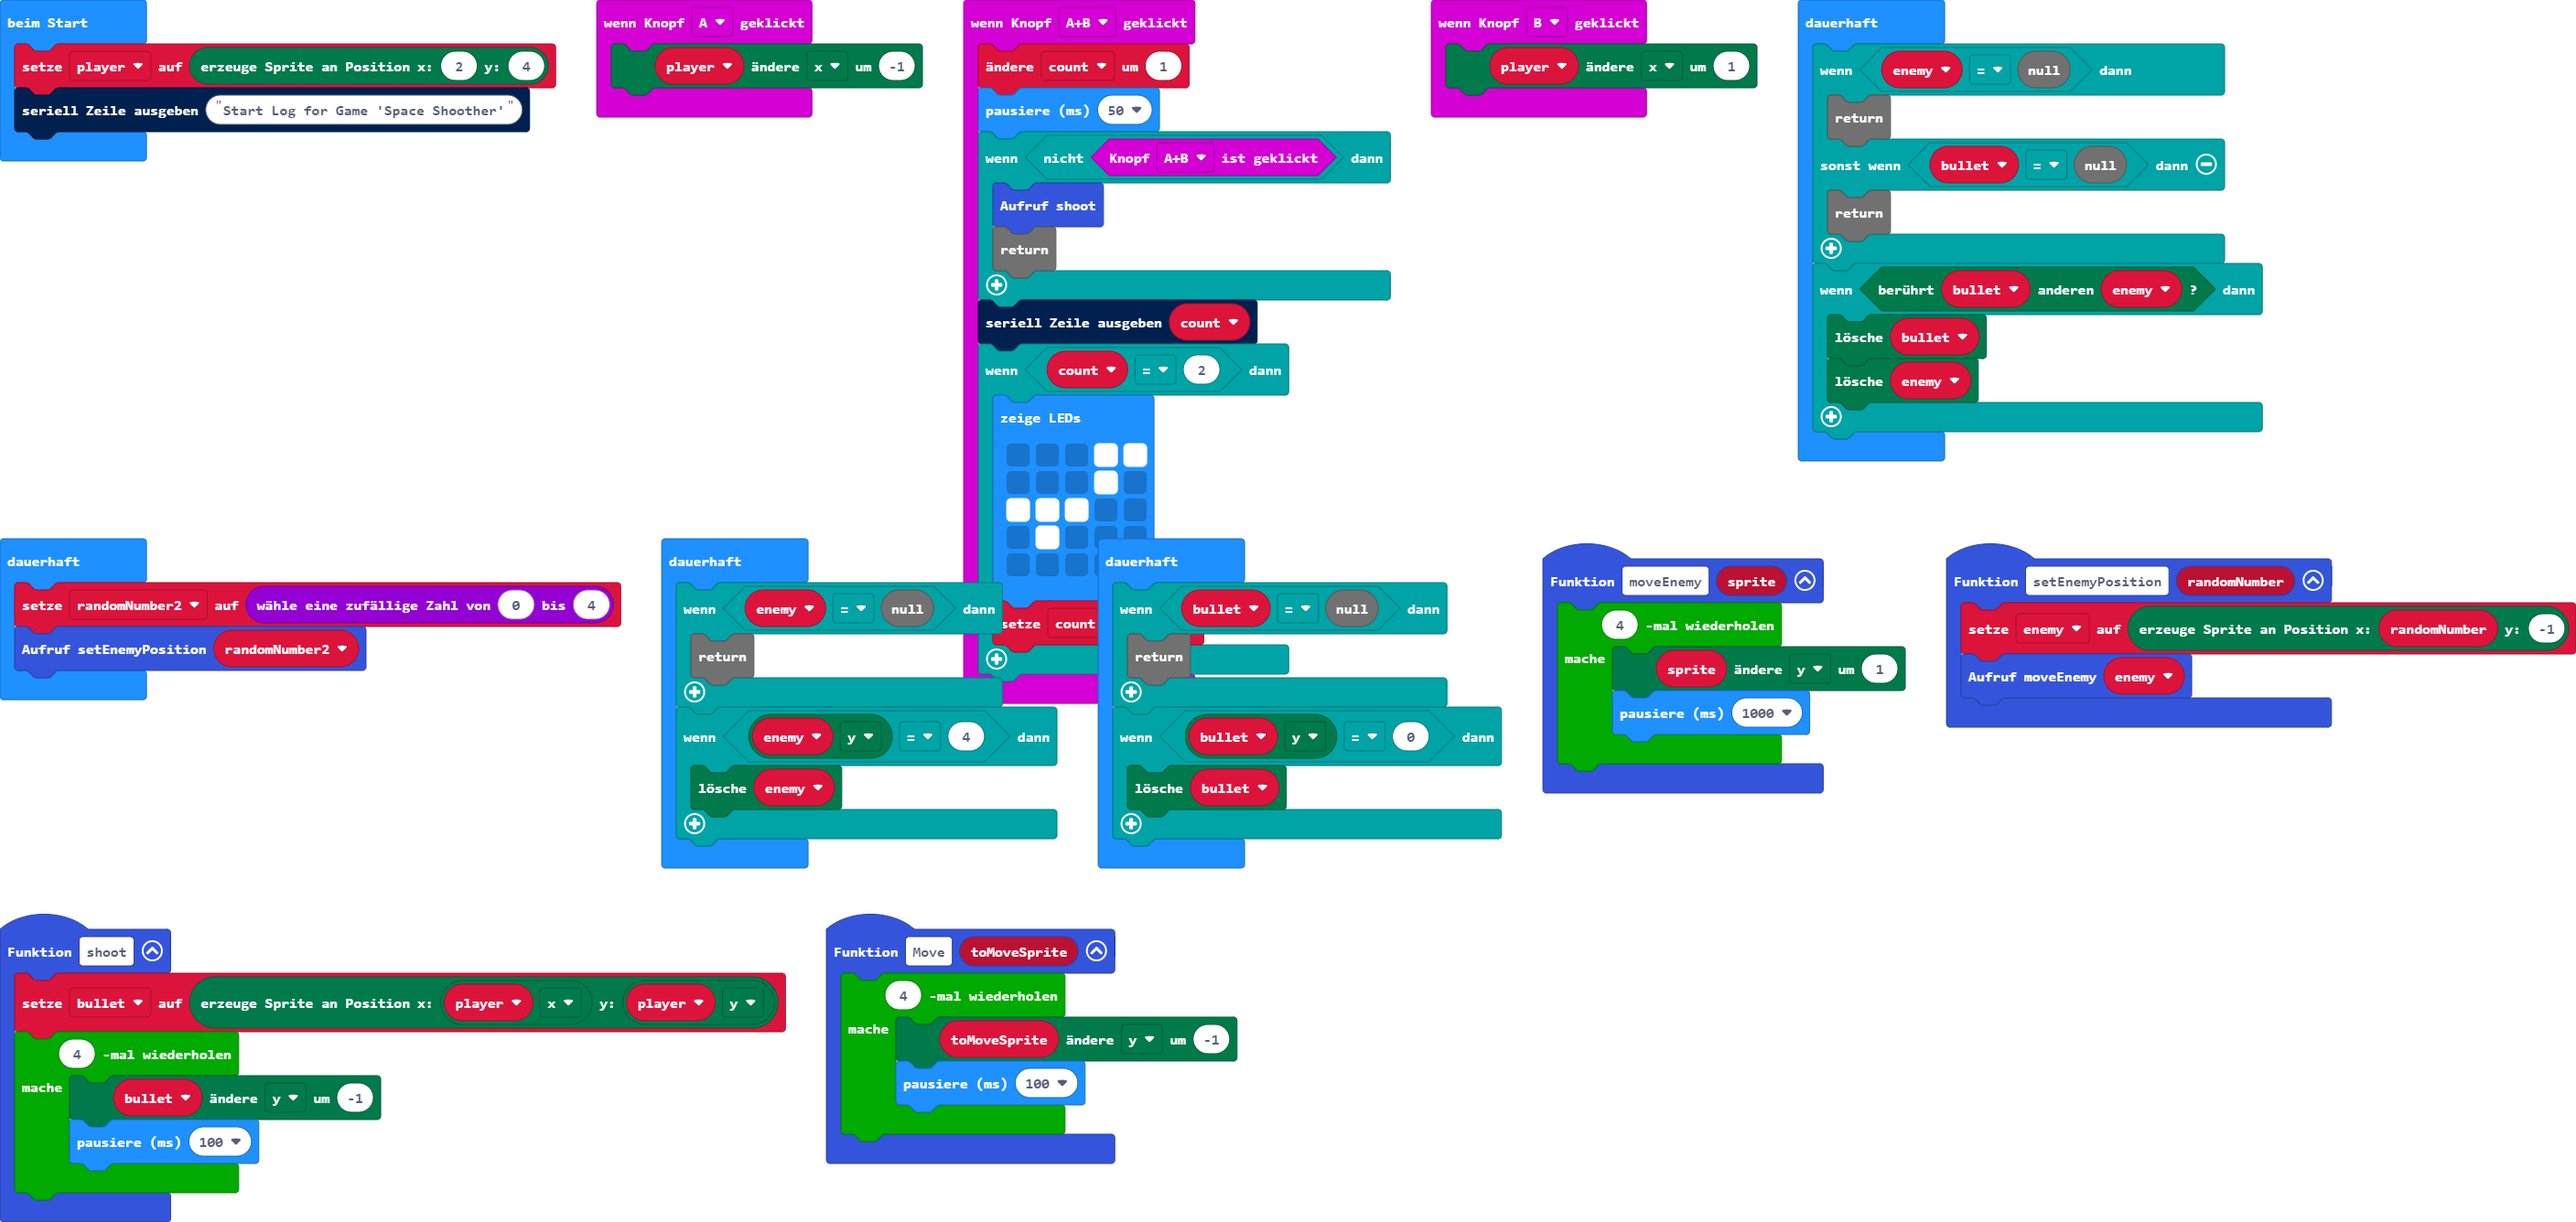
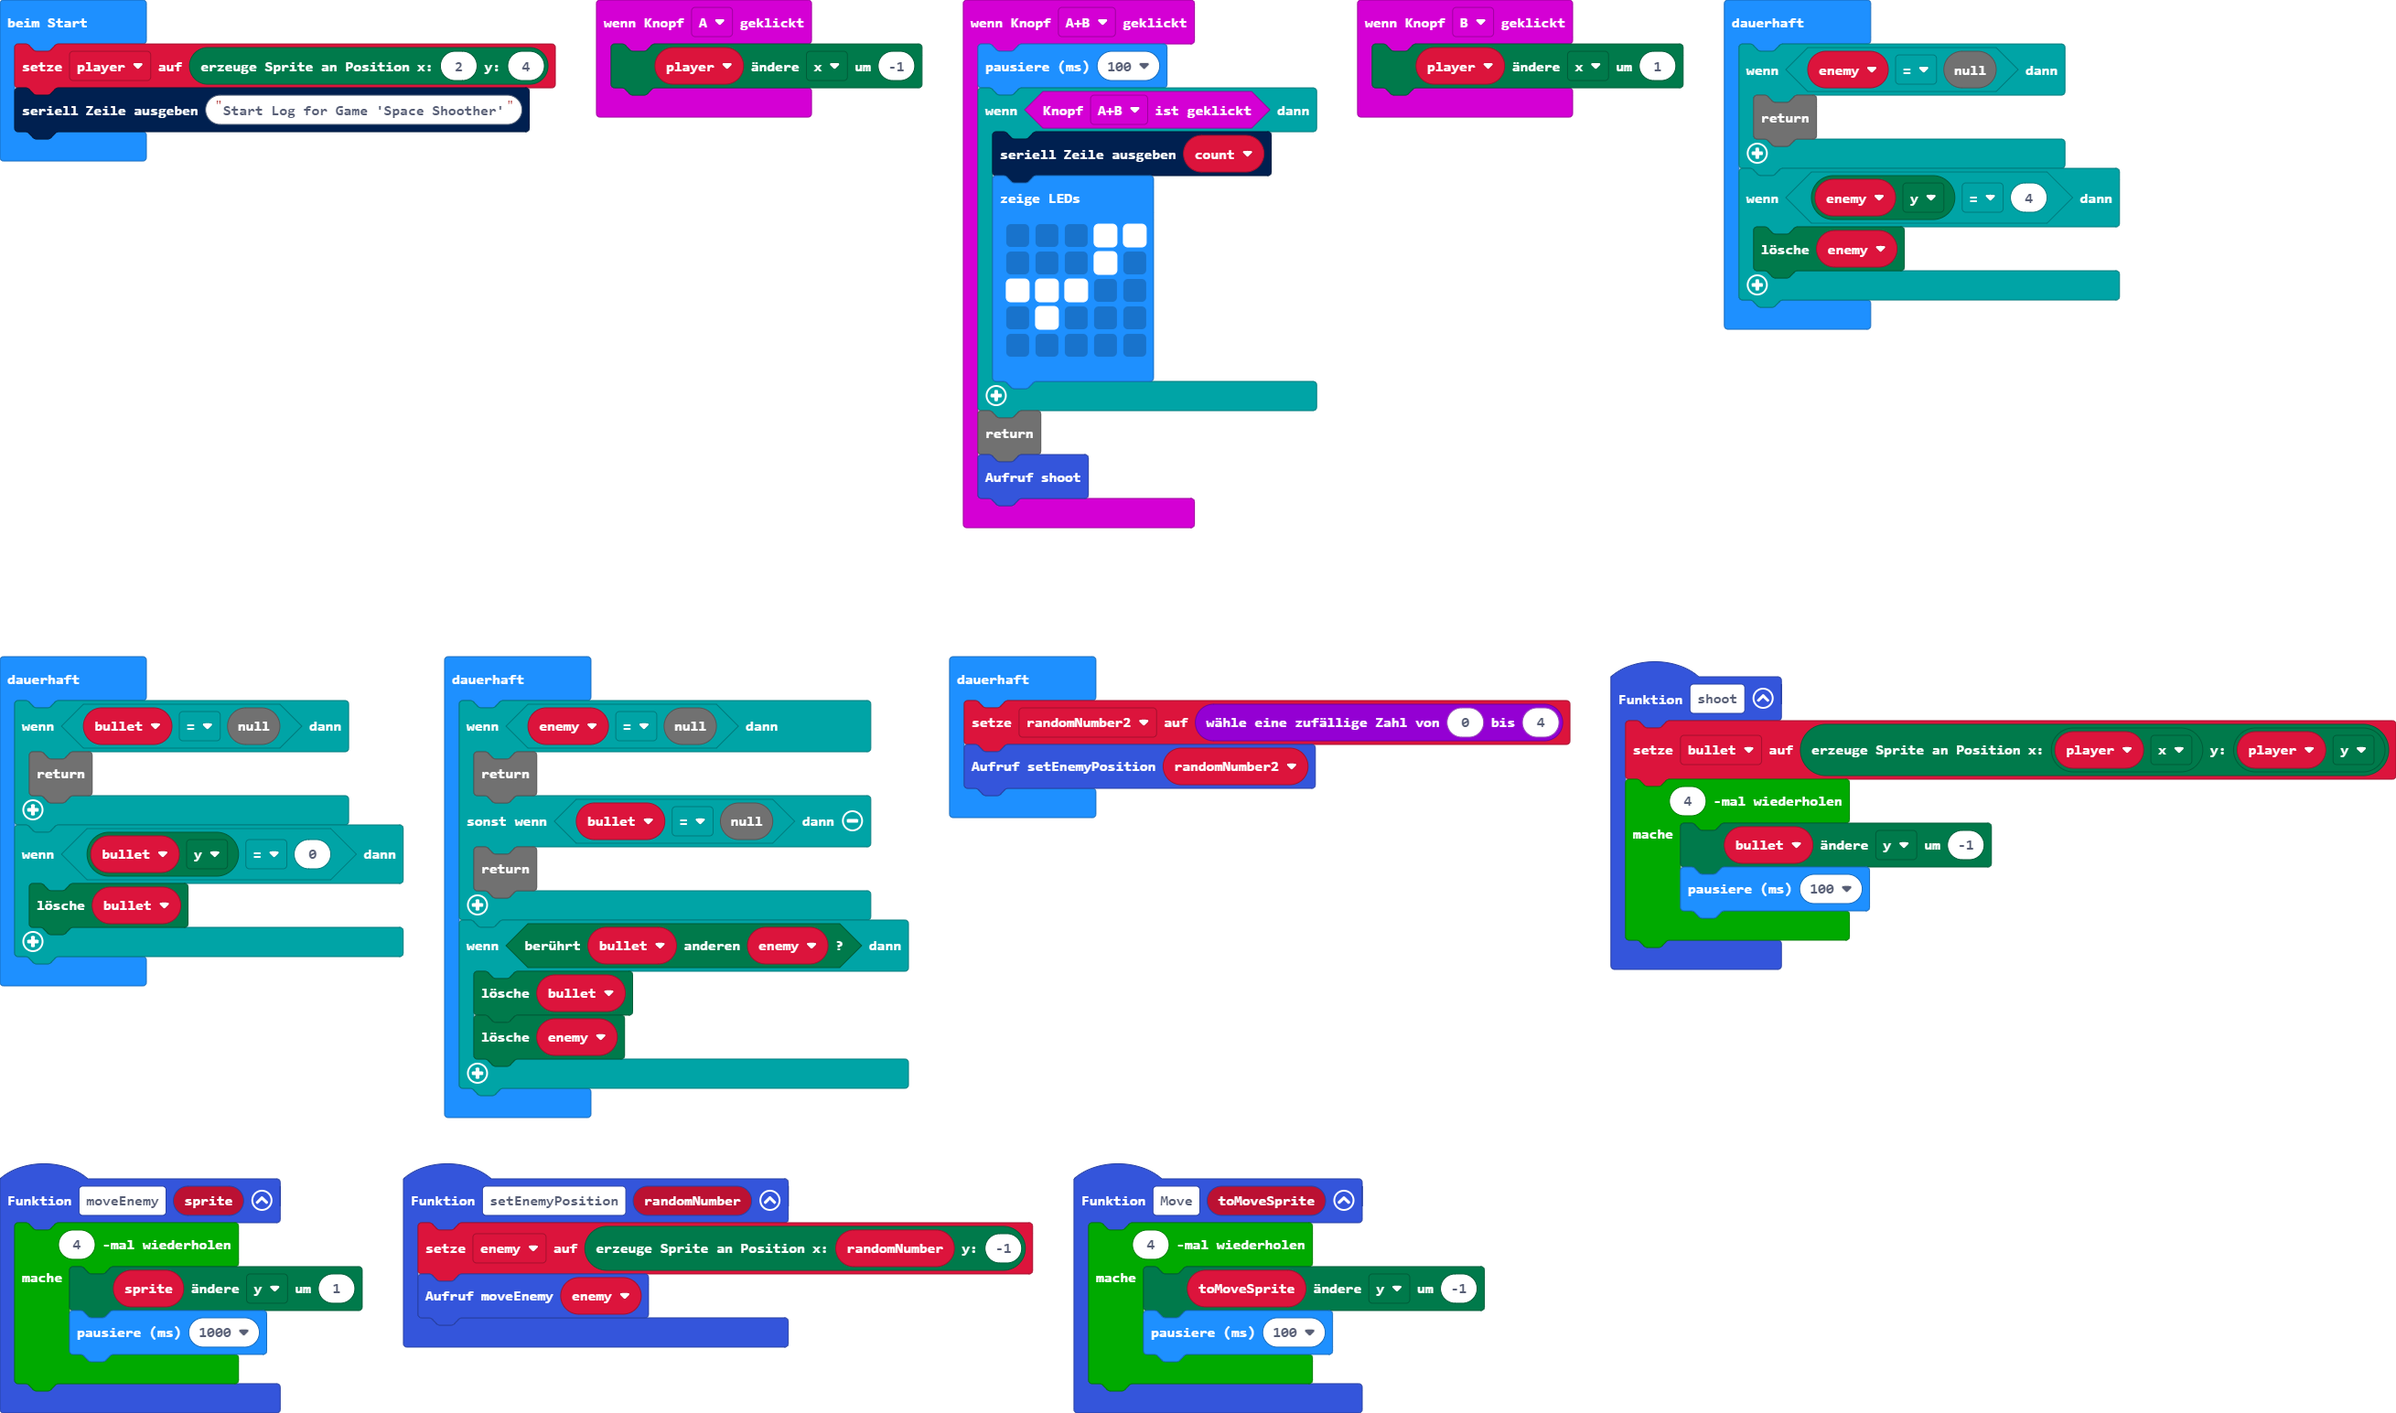
Aktualisiere pxt.json, main.blocks, main.ts

diff --git a/main.ts b/main.ts
@@ -15,14 +15,10 @@ function shoot () {
     }
 }
 input.onButtonPressed(Button.AB, function () {
-    count += 1
     basic.pause(100)
-    if (!(input.buttonIsPressed(Button.AB))) {
-        shoot()
-        return
-    }
-    serial.writeLine("" + (count))
-    if (count == 2) {
+    if (input.buttonIsPressed(Button.AB)) {
+        let count = 0
+        serial.writeLine("" + (count))
         basic.showLeds(`
             . . . # #
             . . . # .
@@ -30,8 +26,9 @@ input.onButtonPressed(Button.AB, function () {
             . # . . .
             . . . . .
             `)
-        count = 0
     }
+    return
+shoot()
 })
 input.onButtonPressed(Button.B, function () {
     player.change(LedSpriteProperty.X, 1)
@@ -48,26 +45,10 @@ function setEnemyPosition (randomNumber: number) {
 }
 let randomNumber2 = 0
 let enemy: game.LedSprite = null
-let count = 0
 let bullet: game.LedSprite = null
 let player: game.LedSprite = null
 player = game.createSprite(2, 4)
 serial.writeLine("Start Log for Game 'Space Shoother'")
-basic.forever(function () {
-    if (enemy == null) {
-        return
-    } else if (bullet == null) {
-        return
-    }
-    if (bullet.isTouching(enemy)) {
-        bullet.delete()
-        enemy.delete()
-    }
-})
-basic.forever(function () {
-    randomNumber2 = randint(0, 4)
-    setEnemyPosition(randomNumber2)
-})
 basic.forever(function () {
     if (enemy == null) {
         return
@@ -83,4 +64,19 @@ basic.forever(function () {
     if (bullet.get(LedSpriteProperty.Y) == 0) {
         bullet.delete()
     }
+})
+basic.forever(function () {
+    if (enemy == null) {
+        return
+    } else if (bullet == null) {
+        return
+    }
+    if (bullet.isTouching(enemy)) {
+        bullet.delete()
+        enemy.delete()
+    }
+})
+basic.forever(function () {
+    randomNumber2 = randint(0, 4)
+    setEnemyPosition(randomNumber2)
 })
